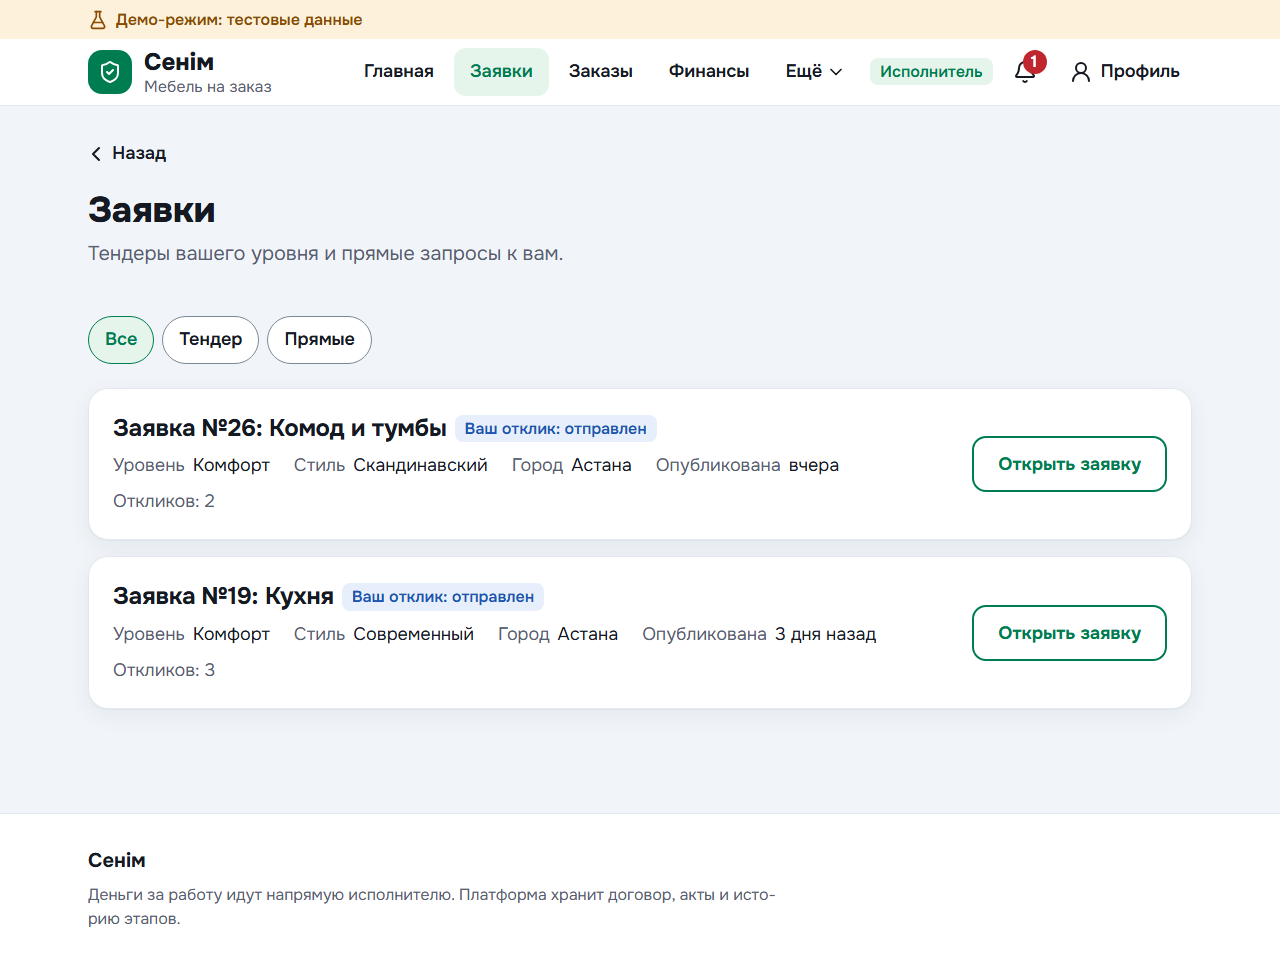
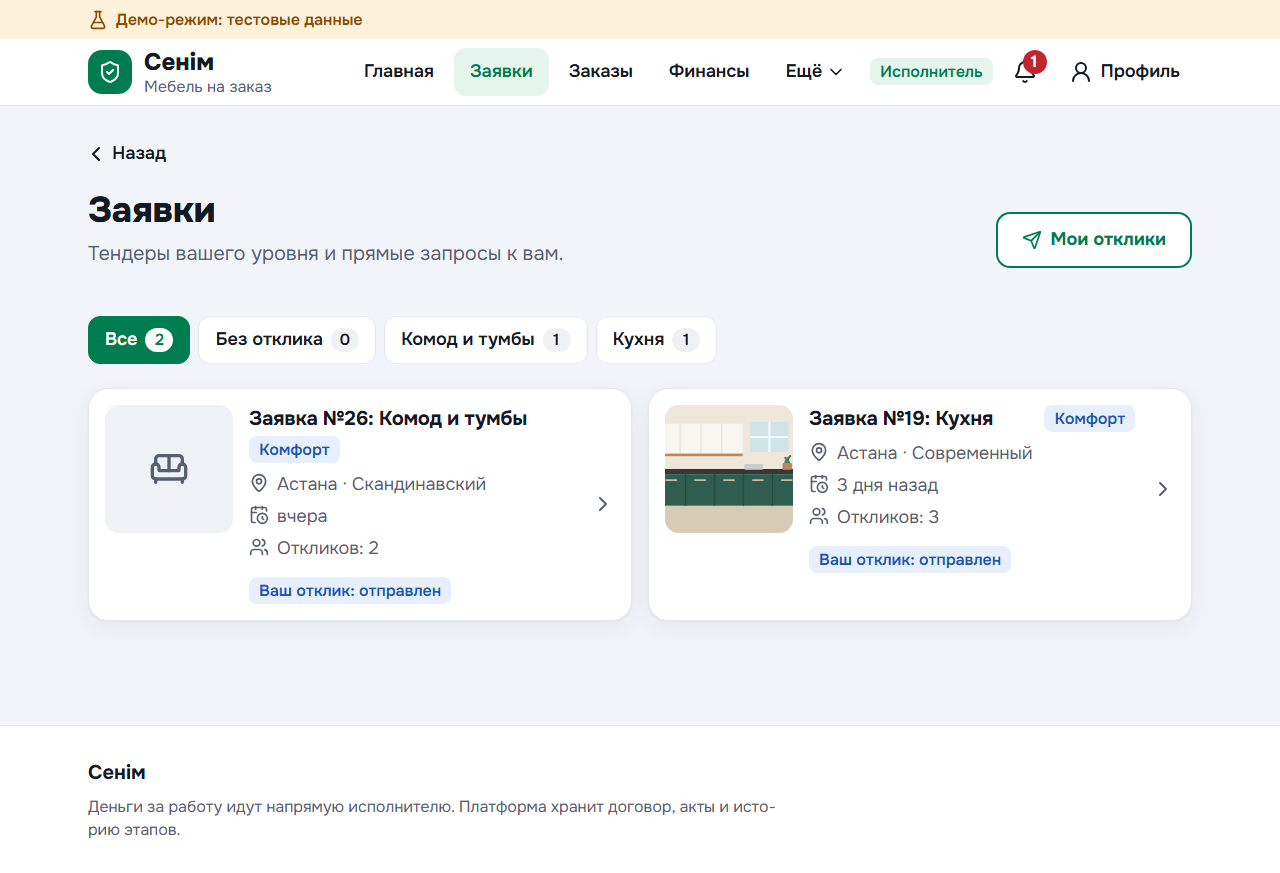
docs(design): экраны исполнителя, замерщика и оператора — скриншоты и отступления
Почему: встреча 31.10, п. 4 — новые экраны нужно сравнить с макетами 12–19
и записать, где и почему мы отступили от них.
Что: capture-roles.mjs (свой скрипт, чтобы не перезаписывать снимки
заказчика) и снимки на 390 и 1280 (плюс «Финансы» при шрифте 200 %);
в README — раздел «Экраны исполнителя, замерщика и оператора», строки
отступлений: «Финансы» без вывода средств и разбивки по месяцам, карточки
без кнопки на каждой и без избранного, без вкладок заявки, отклик не
правится, замер без карты и схемы стен, профиль без контактов и
«медалей»; «Финансы» убраны из «Что дальше».
Как проверено: снимки сняты с dev-сервера на 3125 с демо-данными, без
горизонтальной прокрутки.

diff --git a/docs/design/README.md b/docs/design/README.md
@@ -98,7 +98,24 @@
 - Заказчик (`ClientHome.tsx`, макеты 7 и 10): приветствие, «Оставить заявку», карточки заказов в работе (статус,
   исполнитель, принятые этапы, сумма) и живых заявок (статус, отклики), плашка «Не знаете, с чего начать?».
 - Исполнитель (`ExecutorHome.tsx`, макет 12): приветствие, показатели (новые заявки, заказы в работе, их сумма —
-  только настоящие числа), меню разделов с зелёным пунктом «Новые заявки», карточки новых заявок.
+  только настоящие числа), меню разделов с зелёным пунктом «Новые заявки» (и «Мои отклики», «Финансы»), карточки
+  новых заявок.
+
+## Экраны исполнителя, замерщика и оператора
+
+- «Заявки» (`/executor/requests`, макет 13): `PhotoCard` с обложкой — первым фото помещения или иллюстрацией вида,
+  уровень, «Прямой запрос», город и стиль, когда опубликована, сколько откликов, ваш отклик; `FilterChips`.
+- Заявка (`/executor/requests/[id]`): шкала сценария (`FlowSteps`), фото крупно, плитки фактов, «Что в заявке»;
+  «Ваш отклик» — форма отклика, итоговая цена замера, «Сделка не состоялась», проект на «Утверждение проекта».
+  На телефоне следующий шаг идёт сразу после фактов.
+- «Мои отклики» (`/executor/offers`, макет 14), «Замеры» (`/executor/measurements`, макет 15) — карточки и чипы.
+- «Финансы» (`/executor/finance`, макет 12, экран 4): только чтение `deal-core.getExecutorFinance` — получено,
+  ожидается (этап пора оплатить: аванс или принятая работа), в работе; в `manual` — «оплата по этапам напрямую вам»,
+  комиссии нет.
+- Портфолио — сетка `PhotoCard`; профиль — шапка, меню разделов и форма в карточках; «Стать заказчиком» — плашка.
+- Замерщик (`/measurer`): карточки с адресом выезда, чипы «Назначены / Выполнены»; на замере — плашка «Адрес выезда».
+- Оператор (`/operator/**`): плитки `Stat`, «Что требует внимания», разделы `LinkList`, списки карточками с
+  `StatusBadge` и `FilterChips`, ход регистрации и этапы спора — `Timeline`.
 
 ## Отступления от макетов и почему
 
@@ -107,7 +124,13 @@
 | Зелёный `#008454`, зелёный текст на мятном | `#007d50` | на `#008454` зелёный текст на мятном — 4,2:1; на шаг темнее — 4,6:1, и экраны, где зелёный используется как текст, проходят без правок |
 | Серые подписи `#80808a`, подписи 11–14px | `#566070`, ≥ 16px | контраст ≥ 4,5:1 и основной текст ≥ 17–18px — правила проекта |
 | Вкладка «Мои обращения» | «Мои заявки» | слово глоссария и заголовок самой страницы: подпись вкладки и заголовок экрана должны совпадать |
-| Вкладка «Финансы» у исполнителя | ведёт на список сделок (`/deals?view=finance`) | отдельного экрана финансов пока нет; ближайший — сделки с суммами и этапами оплаты. Вкладки «Заказы» и «Финансы» различаются параметром адреса и подсвечиваются отдельно. Экран «Финансы» (заработок за месяц, ожидают выплаты, история) — задача для deal-core/payments |
+| Стр. 12, «Финансы»: «Заработок за месяц» с выбором месяца, «Ожидают выплаты / Выплачено», «Вывести средства» | `/executor/finance`: «Получено» (зелёная плитка), «Ожидается по принятым этапам», «В работе»; чипы «Все / Ожидается / В работе / Получено»; оплаты по этапам со ссылкой на сделку; кнопки вывода нет | деньги идут заказчик → исполнитель напрямую (или банк раскрывает транш), площадка ничего не «выплачивает» и не хранит; итог за всё время — разбивки по месяцам пока нет |
+| Стр. 12–13: кнопка «Предложить расчёт» на каждой карточке заявки, «сердечко» избранного, фильтр-воронка | вся карточка — ссылка на заявку, форма отклика — на ней; чипы «Все / Без отклика / Прямые мне» и по типам мебели | одно главное действие на экране; избранного в модели нет; уровень у исполнителя один — чипы по уровню не нужны |
+| Стр. 13: вкладки «Визуализация / Размеры / Материалы», «≈ 8 м²» | одна страница: крупное фото помещения (или иллюстрация вида), плитки «что нужно, уровень, город, срок», «Что в заявке», справа «Ваш отклик» | раздел 6 задания — без вкладок; площади в заявке нет |
+| Стр. 14: «Редактировать предложение», «Подтвердить замер / Предложить другое время», «Контакт: показывается после подтверждения» | «Мои отклики» (`/executor/offers`) со статусом отклика и замера; отклик можно только отозвать; замер назначает сам исполнитель после выбора | ADR-003: отклик не правится; телефон заказчика не раскрывается — договорённость в чате |
+| Стр. 15: карта, «Подтвердить выезд», размеры по стенам со схемой, «Уточнённый проект» с ИИ-визуализацией | «Замеры» чипами «Предстоящие / Выполненные / Без сделки и отменённые»; итоговая цена и проект — на экране заявки (ADR-005) | карт и схемы стен в продукте нет; проект — материалы, расшифровка стоимости, срок и гарантия |
+| Стр. 19: логотип и обложка, контакты (телефон, Instagram, WhatsApp, e-mail), «Золотой уровень» | шапка «Заказчики видят вас как «Исполнитель №N»», город и район мастерской, сегмент, наименование для договора; разделы «Публичная страница / Портфолио / Финансы» | контакты исполнителя заказчику не раскрываются, имя — по ADR-006; уровней-«медалей» в продукте нет |
+| Стр. 19: портфолио счётчиком в меню | сетка `PhotoCard`, карточка ведёт к правке, «Скрыть из каталога / Удалить» под карточкой | крупные фото — п. 3 встречи |
 | «Назад» — только стрелка, заголовок по центру | стрелка и слово «Назад», заголовок слева крупно | «Назад» всегда видна и подписана — для людей 35–65 лет |
 | Чипы прокручиваются вбок | переносятся на новую строку | при крупном шрифте всё на виду, без скрытой прокрутки |
 | «Выйти» нигде не показан | на странице «Профиль» (одно нажатие с любой страницы) | в шапке компьютера ему не хватало места рядом с пятью вкладками |
@@ -144,6 +167,7 @@
 DATABASE_URL=postgresql://postgres:postgres@localhost:5442/senim DEMO_MODE=true npx next dev -p 3120
 BASE_URL=http://localhost:3120 node docs/design/screens/capture.mjs
 BASE_URL=http://localhost:3120 node docs/design/screens/capture-wizard.mjs
+BASE_URL=http://localhost:3120 node docs/design/screens/capture-roles.mjs
 ```
 
 | Файл | Экран | Сравнить с макетом |
@@ -162,6 +186,15 @@ BASE_URL=http://localhost:3120 node docs/design/screens/capture-wizard.mjs
 | `client-request-contract-390/1280` | заявка №24 (договор до замера): согласие на договор | 9, экран 1 |
 | `deal-client-390/1280`, `deal-executor-390/1280` | «Мой заказ» — сделка №11 у заказчика и исполнителя | 10 |
 | `deal-done-photos-390/1280` | завершённая сделка №7 с фотоотчётами | 10, 11 |
+| `executor-finance-390/1280`, `executor-finance-390-font200` | «Финансы» исполнителя (Исп. №3) — снимает `capture-roles.mjs`, как и всё ниже | 12, экран 4 |
+| `executor-request-offer-390/1280` | заявка №19 у Исп. №5: форма отклика | 13 |
+| `executor-request-measure-390/1280` | заявка №17 у Исп. №4: итоговая цена после замера | 15 |
+| `executor-offers-390/1280` | «Мои отклики» | 14 |
+| `executor-measurements-390/1280` | «Замеры» | 15 |
+| `executor-portfolio-390/1280` | портфолио | 19 |
+| `executor-profile-390/1280` | профиль исполнителя | 19 |
+| `measurer-home-390/1280`, `measurer-visit-390/1280` | замерщик площадки: список и замер | 15 (стиль) |
+| `operator-home-390/1280`, `operator-executors-390/1280` | панель оператора и список исполнителей | 12 (стиль) |
 
 Новые экраны на телефоне сняты страницей целиком, нижняя панель на таких снимках скрыта (иначе она ложится поверх
 середины). `ONLY=<регулярка имени>` снимает часть экранов.
@@ -169,9 +202,8 @@ BASE_URL=http://localhost:3120 node docs/design/screens/capture-wizard.mjs
 ## Что дальше
 
 - Фото основателей вместо иллюстраций: лендинг (карточки ролей, примеры работ), заглушки карточек.
-- Экраны других зон переходят на `PhotoCard`, `FilterChips`, `Timeline` по мере работы их владельцев (например,
-  фильтры входящих заявок исполнителя пока своей разметкой).
-- Экран «Финансы» исполнителя.
+- Экраны других зон переходят на `PhotoCard`, `FilterChips`, `Timeline` по мере работы их владельцев.
+- «Финансы» за период (месяц) — когда владелец решит, нужна ли разбивка; сейчас итог за всё время.
 - Вилки цены по уровням от владельца (сейчас — только по настоящим откликам, при трёх и больше).
 - Экран «Утверждение проекта» в демо-данных: нет заявки с проектом на решении заказчика — появится после шагов e2e 04.
 - Значок приложения (`src/app/icon.svg`, `public/icons/*`) — ещё прежнего тёмно-зелёного цвета.
